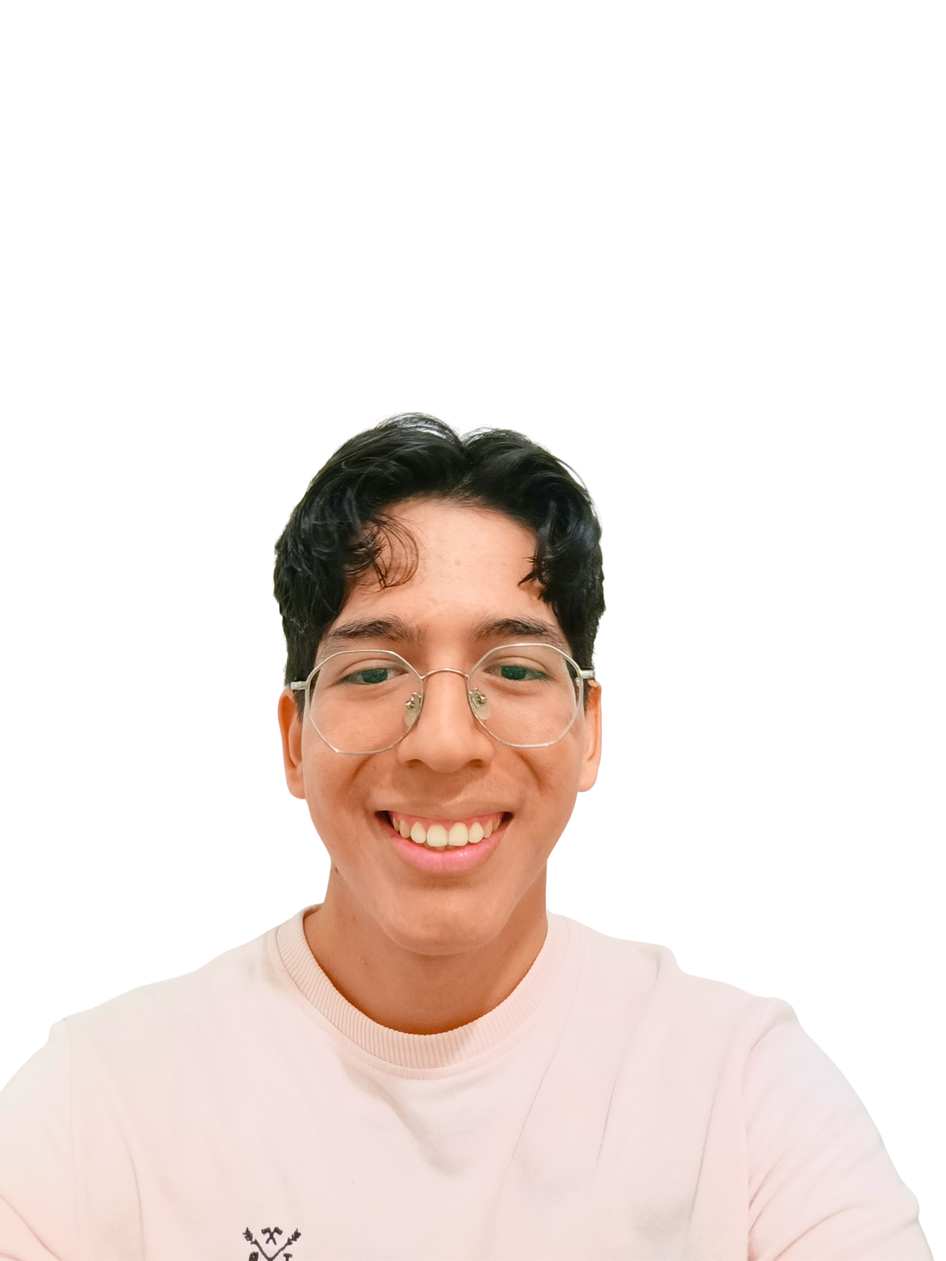
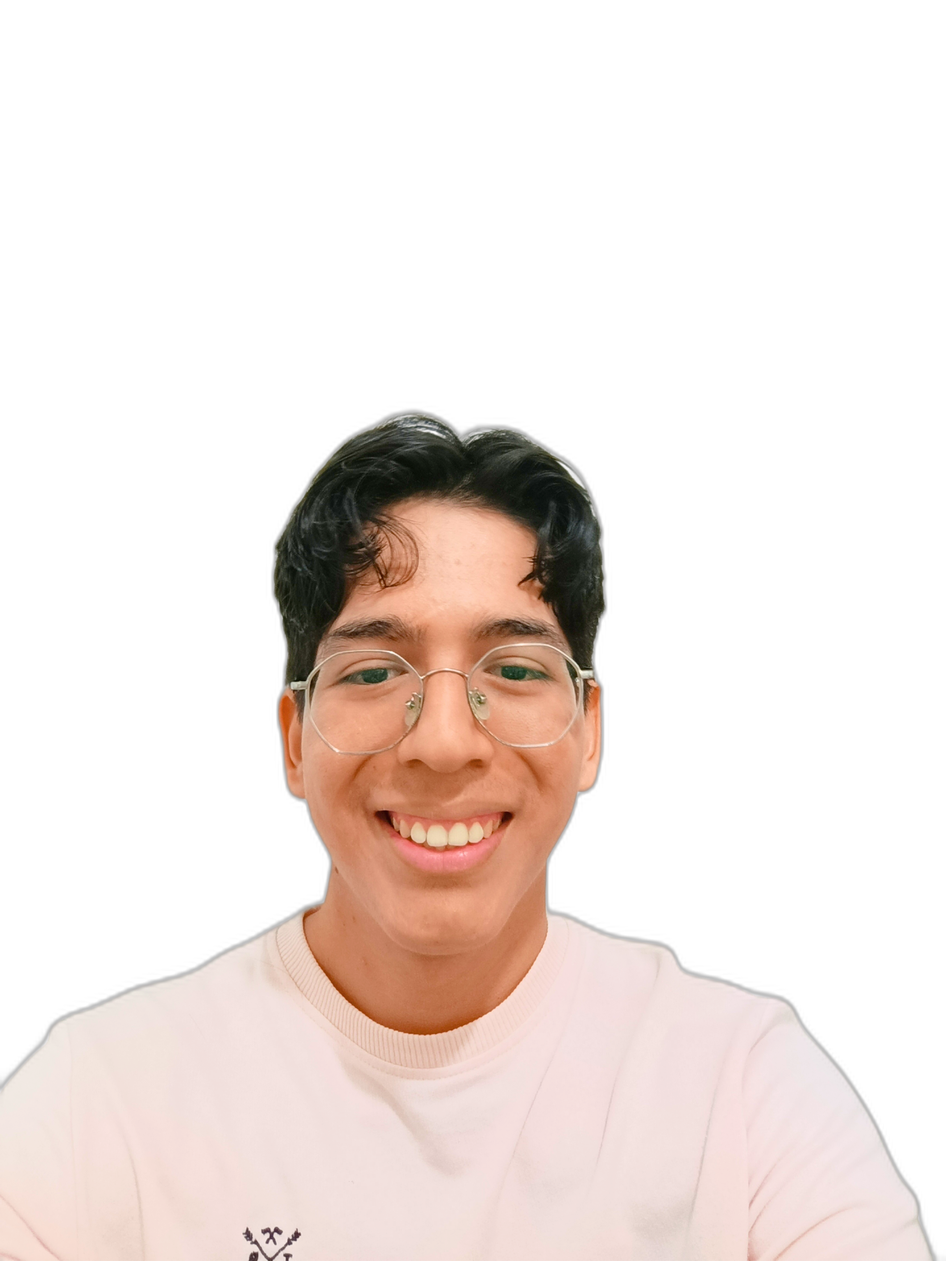
feat: quitar fondo de todas las fotos del equipo y convertir a PNG con fondo blanco

diff --git a/src/app/pages/home/home.ts b/src/app/pages/home/home.ts
@@ -72,7 +72,7 @@ export class Home {
   ];
 
   fundadores: TeamMember[] = [
-    { name: 'Alonso Segura', role: 'Co-Fundador', country: 'Costa Rica', flag: '🇨🇷', initials: 'AS', photo: 'equipo/Alonso Segura.jpg' },
+    { name: 'Alonso Segura', role: 'Co-Fundador', country: 'Costa Rica', flag: '🇨🇷', initials: 'AS', photo: 'equipo/Alonso Segura.png' },
     { name: 'Andrea Sánchez', role: 'Co-Fundadora', country: 'México', flag: '🇲🇽', initials: 'AR', photo: 'equipo/Andrea.png' },
   ];
 
@@ -98,9 +98,9 @@ export class Home {
       nombre: 'Financiamiento y Sostenibilidad',
       miembros: [
         { name: 'Leonel Anaya', role: 'Miembro', country: 'Ecuador', flag: '🇪🇨', initials: 'LA' },
-        { name: 'Camila Naranjo', role: 'Miembro', country: 'Ecuador', flag: '🇪🇨', initials: 'CN', photo: 'equipo/Camila Naranjo.jpg' },
+        { name: 'Camila Naranjo', role: 'Miembro', country: 'Ecuador', flag: '🇪🇨', initials: 'CN', photo: 'equipo/Camila Naranjo.png' },
         { name: 'Mariela Escobar', role: 'Miembro', country: 'Argentina', flag: '🇦🇷', initials: 'ME', photo: 'equipo/Mariela Escobar.png' },
-        { name: 'Nohely Cáceres', role: 'Miembro', country: 'Perú', flag: '🇵🇪', initials: 'NC', photo: 'equipo/Nohely Cáceres.jpg' },
+        { name: 'Nohely Cáceres', role: 'Miembro', country: 'Perú', flag: '🇵🇪', initials: 'NC', photo: 'equipo/Nohely Cáceres.png' },
       ],
     },
     {
@@ -110,7 +110,7 @@ export class Home {
         { name: 'Mario Aurelio Zapata', role: 'Miembro', country: 'Perú', flag: '🇵🇪', initials: 'MZ' },
         { name: 'Luis Camilo Díaz-Duarte', role: 'Miembro', country: 'Colombia', flag: '🇨🇴', initials: 'LD', photo: 'equipo/Luis Camilo Díaz-Duarte.png' },
         { name: 'Marcos Nahuel Ríos', role: 'Miembro', country: 'Argentina', flag: '🇦🇷', initials: 'MR' },
-        { name: 'Anaís Caviedes', role: 'Miembro', country: 'Chile', flag: '🇨🇱', initials: 'AC', photo: 'equipo/Anaís Caviedes.jpeg' },
+        { name: 'Anaís Caviedes', role: 'Miembro', country: 'Chile', flag: '🇨🇱', initials: 'AC', photo: 'equipo/Anaís Caviedes.png' },
         { name: 'Paula Camila González', role: 'Miembro', country: 'Ecuador', flag: '🇪🇨', initials: 'PG' },
         { name: 'Kimberly Raquel Aragón', role: 'Miembro', country: 'Guatemala', flag: '🇬🇹', initials: 'KA', photo: 'equipo/Kimberly Aragón.png' },
       ],
@@ -119,11 +119,11 @@ export class Home {
       nombre: 'Política y Regulación',
       miembros: [
         { name: 'Valentina Ramírez', role: 'Head', country: 'Ecuador', flag: '🇪🇨', initials: 'VR', photo: 'equipo/Valentina Ramírez.png', isHead: true },
-        { name: 'Andrea Ferrufino', role: 'Miembro', country: 'Bolivia', flag: '🇧🇴', initials: 'AF', photo: 'equipo/Andrea Ferrufino.jpg' },
+        { name: 'Andrea Ferrufino', role: 'Miembro', country: 'Bolivia', flag: '🇧🇴', initials: 'AF', photo: 'equipo/Andrea Ferrufino.png' },
         { name: 'Jose Manuel Limón', role: 'Miembro', country: 'México', flag: '🇲🇽', initials: 'JL', photo: 'equipo/José Manuel Hernández Limón.png' },
-        { name: 'Benjamín Mendoza', role: 'Miembro', country: 'México', flag: '🇲🇽', initials: 'BM', photo: 'equipo/Benjamín Mendoza.jpg' },
-        { name: 'María Guadalupe Juárez', role: 'Miembro', country: 'México', flag: '🇲🇽', initials: 'GJ', photo: 'equipo/María Guadalupe Juárez Hernández.jpg' },
-        { name: 'Javier David Uzcátegui', role: 'Miembro', country: 'Venezuela', flag: '🇻🇪', initials: 'JU', photo: 'equipo/Javier David-Uzcategui.jpg' },
+        { name: 'Benjamín Mendoza', role: 'Miembro', country: 'México', flag: '🇲🇽', initials: 'BM', photo: 'equipo/Benjamín Mendoza.png' },
+        { name: 'María Guadalupe Juárez', role: 'Miembro', country: 'México', flag: '🇲🇽', initials: 'GJ', photo: 'equipo/María Guadalupe Juárez Hernández.png' },
+        { name: 'Javier David Uzcátegui', role: 'Miembro', country: 'Venezuela', flag: '🇻🇪', initials: 'JU', photo: 'equipo/Javier David-Uzcategui.png' },
         { name: 'Carlos Andrés Moya', role: 'Miembro', country: 'Costa Rica', flag: '🇨🇷', initials: 'CM', photo: 'equipo/Carlos Moya.png' },
         { name: 'Wilka Fidel Vargas', role: 'Miembro', country: 'Bolivia', flag: '🇧🇴', initials: 'WV', photo: 'equipo/Willka Fidel Vargas Peña.png' },
         { name: 'Alejandro Vallejo', role: 'Miembro', country: 'Rep. Dominicana', flag: '🇩🇴', initials: 'AV' },
@@ -134,27 +134,27 @@ export class Home {
       miembros: [
         { name: 'Fabrizio Yasuo Flores', role: 'Miembro', country: 'Perú', flag: '🇵🇪', initials: 'FF', photo: 'equipo/Fabrizio Flores.png' },
         { name: 'Estefanía Mansilla', role: 'Miembro', country: 'Argentina', flag: '🇦🇷', initials: 'EM' },
-        { name: 'María Cecilia Merino', role: 'Miembro', country: 'Argentina', flag: '🇦🇷', initials: 'MM', photo: 'equipo/María Cecilia Merino.jpeg' },
+        { name: 'María Cecilia Merino', role: 'Miembro', country: 'Argentina', flag: '🇦🇷', initials: 'MM', photo: 'equipo/María Cecilia Merino.png' },
         { name: 'Mishell Criollo', role: 'Miembro', country: 'Ecuador', flag: '🇪🇨', initials: 'MC', photo: 'equipo/Mishell Criollo.png' },
-        { name: 'Pilar Montealegre', role: 'Miembro', country: 'Bolivia', flag: '🇧🇴', initials: 'PM', photo: 'equipo/Pilar Montealegre Vargas.jpg' },
-        { name: 'Rodrigo Aguirre', role: 'Miembro', country: 'Bolivia', flag: '🇧🇴', initials: 'RA', photo: 'equipo/Rodrigo Aguirre.jpg' },
-        { name: 'Vladimir Tandapiico', role: 'Miembro', country: 'Ecuador', flag: '🇪🇨', initials: 'VT', photo: 'equipo/Wladimir Tandapilco.jpg' },
-        { name: 'Andrea Gualtasamin', role: 'Miembro', country: 'Ecuador', flag: '🇪🇨', initials: 'AG', photo: 'equipo/Andrea Guallasamin.jpg' },
-        { name: 'Xavier García', role: 'Miembro', country: 'Ecuador', flag: '🇪🇨', initials: 'XG', photo: 'equipo/Xavier García.jpg' },
+        { name: 'Pilar Montealegre', role: 'Miembro', country: 'Bolivia', flag: '🇧🇴', initials: 'PM', photo: 'equipo/Pilar Montealegre Vargas.png' },
+        { name: 'Rodrigo Aguirre', role: 'Miembro', country: 'Bolivia', flag: '🇧🇴', initials: 'RA', photo: 'equipo/Rodrigo Aguirre.png' },
+        { name: 'Vladimir Tandapiico', role: 'Miembro', country: 'Ecuador', flag: '🇪🇨', initials: 'VT', photo: 'equipo/Wladimir Tandapilco.png' },
+        { name: 'Andrea Gualtasamin', role: 'Miembro', country: 'Ecuador', flag: '🇪🇨', initials: 'AG', photo: 'equipo/Andrea Guallasamin.png' },
+        { name: 'Xavier García', role: 'Miembro', country: 'Ecuador', flag: '🇪🇨', initials: 'XG', photo: 'equipo/Xavier García.png' },
       ],
     },
     {
       nombre: 'Capacitación',
       miembros: [
-        { name: 'Bastian Márquez', role: 'Head', country: 'Chile', flag: '🇨🇱', initials: 'BM', photo: 'equipo/Bastián Márquez González.jpeg', isHead: true },
+        { name: 'Bastian Márquez', role: 'Head', country: 'Chile', flag: '🇨🇱', initials: 'BM', photo: 'equipo/Bastián Márquez González.png', isHead: true },
         { name: 'Jessica Martin', role: 'Miembro', country: 'Argentina', flag: '🇦🇷', initials: 'JM' },
         { name: 'Katherine Silva', role: 'Miembro', country: 'Ecuador', flag: '🇪🇨', initials: 'KS' },
-        { name: 'Sebastian Torres', role: 'Miembro', country: 'Colombia', flag: '🇨🇴', initials: 'ST', photo: 'equipo/Sebastián Toro.jpg' },
+        { name: 'Sebastian Torres', role: 'Miembro', country: 'Colombia', flag: '🇨🇴', initials: 'ST', photo: 'equipo/Sebastián Toro.png' },
         { name: 'Juan David León', role: 'Miembro', country: 'Colombia', flag: '🇨🇴', initials: 'JL' },
-        { name: 'Rocío Coronel', role: 'Miembro', country: 'Paraguay', flag: '🇵🇾', initials: 'RC', photo: 'equipo/Rocio Coronel.jpg' },
+        { name: 'Rocío Coronel', role: 'Miembro', country: 'Paraguay', flag: '🇵🇾', initials: 'RC', photo: 'equipo/Rocio Coronel.png' },
         { name: 'Maricela Martínez', role: 'Miembro', country: 'Costa Rica', flag: '🇨🇷', initials: 'MM' },
-        { name: 'Gloriana Corrales', role: 'Miembro', country: 'Costa Rica', flag: '🇨🇷', initials: 'GC', photo: 'equipo/Gloriana Corrales Masís.jpg' },
-        { name: 'Ailey Caballero', role: 'Miembro', country: 'Panamá', flag: '🇵🇦', initials: 'AC', photo: 'equipo/Asley Caballero.jpeg' },
+        { name: 'Gloriana Corrales', role: 'Miembro', country: 'Costa Rica', flag: '🇨🇷', initials: 'GC', photo: 'equipo/Gloriana Corrales Masís.png' },
+        { name: 'Ailey Caballero', role: 'Miembro', country: 'Panamá', flag: '🇵🇦', initials: 'AC', photo: 'equipo/Asley Caballero.png' },
         { name: 'Krister Figueroa', role: 'Miembro', country: 'Ecuador', flag: '🇪🇨', initials: 'KF', photo: 'equipo/Krister Figueroa.png' },
         { name: 'Nelson Rodríguez', role: 'Miembro', country: 'Ecuador', flag: '🇪🇨', initials: 'NR' },
         { name: 'Mariane Córdoba', role: 'Miembro', country: 'Costa Rica', flag: '🇨🇷', initials: 'MC' },
@@ -163,24 +163,24 @@ export class Home {
     {
       nombre: 'Gestión de Actividades',
       miembros: [
-        { name: 'Caren Nicole Moreno', role: 'Miembro', country: 'Argentina', flag: '🇦🇷', initials: 'CN', photo: 'equipo/Caren Moreno.jpg' },
-        { name: 'Denis Buffa', role: 'Miembro', country: 'Argentina', flag: '🇦🇷', initials: 'DB', photo: 'equipo/Denis Buffa.jpeg' },
-        { name: 'Christian Andrade', role: 'Miembro', country: 'Ecuador', flag: '🇪🇨', initials: 'CA', photo: 'equipo/Christian Andrade.jpeg' },
-        { name: 'Pedro Raúl Javier Mendoza', role: 'Miembro', country: 'Perú', flag: '🇵🇪', initials: 'PM', photo: 'equipo/Pedro Raul Mendoza.jpeg' },
+        { name: 'Caren Nicole Moreno', role: 'Miembro', country: 'Argentina', flag: '🇦🇷', initials: 'CN', photo: 'equipo/Caren Moreno.png' },
+        { name: 'Denis Buffa', role: 'Miembro', country: 'Argentina', flag: '🇦🇷', initials: 'DB', photo: 'equipo/Denis Buffa.png' },
+        { name: 'Christian Andrade', role: 'Miembro', country: 'Ecuador', flag: '🇪🇨', initials: 'CA', photo: 'equipo/Christian Andrade.png' },
+        { name: 'Pedro Raúl Javier Mendoza', role: 'Miembro', country: 'Perú', flag: '🇵🇪', initials: 'PM', photo: 'equipo/Pedro Raul Mendoza.png' },
       ],
     },
     {
       nombre: 'Diseño',
       miembros: [
         { name: 'Luciana Castro', role: 'Miembro', country: 'Perú', flag: '🇵🇪', initials: 'LC', photo: 'equipo/Luciana Castro Camavilca foto en blanco.png' },
-        { name: 'Mariana Valdéz', role: 'Miembro', country: 'México', flag: '🇲🇽', initials: 'MV', photo: 'equipo/Mariana Valdez Yañez.JPG' },
-        { name: 'Debora Parodi', role: 'Miembro', country: 'Argentina', flag: '🇦🇷', initials: 'DP', photo: 'equipo/Debora Parodi.jpg' },
+        { name: 'Mariana Valdéz', role: 'Miembro', country: 'México', flag: '🇲🇽', initials: 'MV', photo: 'equipo/Mariana Valdez Yañez.png' },
+        { name: 'Debora Parodi', role: 'Miembro', country: 'Argentina', flag: '🇦🇷', initials: 'DP', photo: 'equipo/Debora Parodi.png' },
         { name: 'Catalina Serrano', role: 'Miembro', country: 'Ecuador', flag: '🇪🇨', initials: 'CS', photo: 'equipo/Catalina Serrano Foto.png' },
-        { name: 'Alessia Vásquez', role: 'Miembro', country: 'Costa Rica', flag: '🇨🇷', initials: 'AV', photo: 'equipo/Alessia Vasquez.jpg' },
+        { name: 'Alessia Vásquez', role: 'Miembro', country: 'Costa Rica', flag: '🇨🇷', initials: 'AV', photo: 'equipo/Alessia Vasquez.png' },
         { name: 'Ashley Alban', role: 'Miembro', country: 'Ecuador', flag: '🇪🇨', initials: 'AA', photo: 'equipo/Ashley Alban.png' },
         { name: 'Charlize Badilla', role: 'Miembro', country: 'Costa Rica', flag: '🇨🇷', initials: 'CB', photo: 'equipo/Charlize Badilla Soto.png' },
-        { name: 'Ana Patricia Minaya', role: 'Miembro', country: 'Perú', flag: '🇵🇪', initials: 'AP', photo: 'equipo/Ana Minaya De La Peña.jpg' },
-        { name: 'Anahí Nájera', role: 'Miembro', country: 'México', flag: '🇲🇽', initials: 'AN', photo: 'equipo/Anahi Najera.jpg' },
+        { name: 'Ana Patricia Minaya', role: 'Miembro', country: 'Perú', flag: '🇵🇪', initials: 'AP', photo: 'equipo/Ana Minaya De La Peña.png' },
+        { name: 'Anahí Nájera', role: 'Miembro', country: 'México', flag: '🇲🇽', initials: 'AN', photo: 'equipo/Anahi Najera.png' },
       ],
     },
     {
@@ -188,20 +188,20 @@ export class Home {
       miembros: [
         { name: 'Belén Tosini', role: 'Miembro', country: 'Ecuador', flag: '🇪🇨', initials: 'BT' },
         { name: 'Matías Tosini', role: 'Miembro', country: 'Argentina', flag: '🇦🇷', initials: 'MT', photo: 'equipo/Matias Tosini.png' },
-        { name: 'Aaron Maldonado', role: 'Miembro', country: 'Ecuador', flag: '🇪🇨', initials: 'AM', photo: 'equipo/Aaron Maldonado.JPG' },
+        { name: 'Aaron Maldonado', role: 'Miembro', country: 'Ecuador', flag: '🇪🇨', initials: 'AM', photo: 'equipo/Aaron Maldonado.png' },
       ],
     },
     {
       nombre: 'Recursos e Información',
       miembros: [
-        { name: 'Katherine Alessandra Girón', role: 'Miembro', country: 'Guatemala', flag: '🇬🇹', initials: 'KG', photo: 'equipo/Katherine Girón.jpg' },
-        { name: 'Andrea Ramos', role: 'Miembro', country: 'México', flag: '🇲🇽', initials: 'AR', photo: 'equipo/Andrea Ramos.webp' },
-        { name: 'Josue Alvarez', role: 'Miembro', country: 'Ecuador', flag: '🇪🇨', initials: 'JA', photo: 'equipo/Josue Alvarez.jpeg' },
-        { name: 'Angie Pozo', role: 'Miembro', country: 'Ecuador', flag: '🇪🇨', initials: 'AP', photo: 'equipo/Angie Pozo Cedeño.jpg' },
-        { name: 'Camil Lucía Espinoza', role: 'Miembro', country: 'Perú', flag: '🇵🇪', initials: 'CE', photo: 'equipo/CAMIL ESPINOZA-RAMOS.jpeg' },
+        { name: 'Katherine Alessandra Girón', role: 'Miembro', country: 'Guatemala', flag: '🇬🇹', initials: 'KG', photo: 'equipo/Katherine Girón.png' },
+        { name: 'Andrea Ramos', role: 'Miembro', country: 'México', flag: '🇲🇽', initials: 'AR', photo: 'equipo/Andrea Ramos.png' },
+        { name: 'Josue Alvarez', role: 'Miembro', country: 'Ecuador', flag: '🇪🇨', initials: 'JA', photo: 'equipo/Josue Alvarez.png' },
+        { name: 'Angie Pozo', role: 'Miembro', country: 'Ecuador', flag: '🇪🇨', initials: 'AP', photo: 'equipo/Angie Pozo Cedeño.png' },
+        { name: 'Camil Lucía Espinoza', role: 'Miembro', country: 'Perú', flag: '🇵🇪', initials: 'CE', photo: 'equipo/CAMIL ESPINOZA-RAMOS.png' },
         { name: 'Johan Kalil Guerra', role: 'Miembro', country: 'Panamá', flag: '🇵🇦', initials: 'JG', photo: 'equipo/Johan Guerra.png' },
         { name: 'Jeancore Padilla', role: 'Miembro', country: 'Bolivia', flag: '🇧🇴', initials: 'JP', photo: 'equipo/Jeancarla Padilla.png' },
-        { name: 'Ian Sebastian Terán', role: 'Miembro', country: 'Bolivia', flag: '🇧🇴', initials: 'IT', photo: 'equipo/Ian Sebastian Teran.jpg' },
+        { name: 'Ian Sebastian Terán', role: 'Miembro', country: 'Bolivia', flag: '🇧🇴', initials: 'IT', photo: 'equipo/Ian Sebastian Teran.png' },
         { name: 'Alejandra Cazares', role: 'Miembro', country: 'México', flag: '🇲🇽', initials: 'AC', photo: 'equipo/Alejandra Cazares.png' },
         { name: 'Jorge Barrios', role: 'Miembro', country: 'Ecuador', flag: '🇪🇨', initials: 'JB', photo: 'equipo/Jorge Luis Barrios.png' },
         { name: 'Tomas Blanzaco', role: 'Miembro', country: 'Argentina', flag: '🇦🇷', initials: 'TB', photo: 'equipo/Blanzaco Tomas.png' },

diff --git a/src/app/components/latam-map/latam-map.ts b/src/app/components/latam-map/latam-map.ts
@@ -37,11 +37,11 @@ export class LatamMap {
       members: [
         { name: 'Andrea Sánchez', role: 'Co-Fundadora', initials: 'AS', photo: 'equipo/Andrea.png' },
         { name: 'Jose Manuel Limón', role: 'Política y Regulación', initials: 'JL', photo: 'equipo/José Manuel Hernández Limón.png' },
-        { name: 'Benjamín Mendoza', role: 'Política y Regulación', initials: 'BM', photo: 'equipo/Benjamín Mendoza.jpg' },
-        { name: 'María Guadalupe Juárez', role: 'Política y Regulación', initials: 'GJ', photo: 'equipo/María Guadalupe Juárez Hernández.jpg' },
-        { name: 'Mariana Valdéz', role: 'Diseño', initials: 'MV', photo: 'equipo/Mariana Valdez Yañez.JPG' },
-        { name: 'Anahí Nájera', role: 'Diseño', initials: 'AN', photo: 'equipo/Anahi Najera.jpg' },
-        { name: 'Andrea Ramos', role: 'Recursos e Información', initials: 'AR', photo: 'equipo/Andrea Ramos.webp' },
+        { name: 'Benjamín Mendoza', role: 'Política y Regulación', initials: 'BM', photo: 'equipo/Benjamín Mendoza.png' },
+        { name: 'María Guadalupe Juárez', role: 'Política y Regulación', initials: 'GJ', photo: 'equipo/María Guadalupe Juárez Hernández.png' },
+        { name: 'Mariana Valdéz', role: 'Diseño', initials: 'MV', photo: 'equipo/Mariana Valdez Yañez.png' },
+        { name: 'Anahí Nájera', role: 'Diseño', initials: 'AN', photo: 'equipo/Anahi Najera.png' },
+        { name: 'Andrea Ramos', role: 'Recursos e Información', initials: 'AR', photo: 'equipo/Andrea Ramos.png' },
         { name: 'Alejandra Cazares', role: 'Recursos e Información', initials: 'AC', photo: 'equipo/Alejandra Cazares.png' },
       ]
     },
@@ -50,7 +50,7 @@ export class LatamMap {
       color: '#8B5CF6', colorHover: '#A78BFA',
       members: [
         { name: 'Kimberly Raquel Aragón', role: 'Gestión de Proyectos', initials: 'KA', photo: 'equipo/Kimberly Aragón.png' },
-        { name: 'Katherine Alessandra Girón', role: 'Recursos e Información', initials: 'KG', photo: 'equipo/Katherine Girón.jpg' },
+        { name: 'Katherine Alessandra Girón', role: 'Recursos e Información', initials: 'KG', photo: 'equipo/Katherine Girón.png' },
       ]
     },
     {
@@ -72,12 +72,12 @@ export class LatamMap {
       id: 'CR', label: 'Costa Rica', flag: '🇨🇷',
       color: '#EC4899', colorHover: '#F472B6',
       members: [
-        { name: 'Alonso Segura', role: 'Co-Fundador', initials: 'AS', photo: 'equipo/Alonso Segura.jpg' },
+        { name: 'Alonso Segura', role: 'Co-Fundador', initials: 'AS', photo: 'equipo/Alonso Segura.png' },
         { name: 'Carlos Andrés Moya', role: 'Política y Regulación', initials: 'CM', photo: 'equipo/Carlos Moya.png' },
-        { name: 'Gloriana Corrales', role: 'Capacitación', initials: 'GC', photo: 'equipo/Gloriana Corrales Masís.jpg' },
+        { name: 'Gloriana Corrales', role: 'Capacitación', initials: 'GC', photo: 'equipo/Gloriana Corrales Masís.png' },
         { name: 'Maricela Martínez', role: 'Capacitación', initials: 'MM' },
         { name: 'Mariane Córdoba', role: 'Capacitación', initials: 'MC' },
-        { name: 'Alessia Vásquez', role: 'Diseño', initials: 'AV', photo: 'equipo/Alessia Vasquez.jpg' },
+        { name: 'Alessia Vásquez', role: 'Diseño', initials: 'AV', photo: 'equipo/Alessia Vasquez.png' },
         { name: 'Charlize Badilla', role: 'Diseño', initials: 'CB', photo: 'equipo/Charlize Badilla Soto.png' },
       ]
     },
@@ -85,7 +85,7 @@ export class LatamMap {
       id: 'PA', label: 'Panamá', flag: '🇵🇦',
       color: '#06B6D4', colorHover: '#22D3EE',
       members: [
-        { name: 'Ailey Caballero', role: 'Capacitación', initials: 'AC', photo: 'equipo/Asley Caballero.jpeg' },
+        { name: 'Ailey Caballero', role: 'Capacitación', initials: 'AC', photo: 'equipo/Asley Caballero.png' },
         { name: 'Johan Kalil Guerra', role: 'Recursos e Información', initials: 'JG', photo: 'equipo/Johan Guerra.png' },
       ]
     },
@@ -94,7 +94,7 @@ export class LatamMap {
       color: '#F97316', colorHover: '#FB923C',
       members: [
         { name: 'Luis Camilo Díaz-Duarte', role: 'Gestión de Proyectos', initials: 'LD', photo: 'equipo/Luis Camilo Díaz-Duarte.png' },
-        { name: 'Sebastian Torres', role: 'Capacitación', initials: 'ST', photo: 'equipo/Sebastián Toro.jpg' },
+        { name: 'Sebastian Torres', role: 'Capacitación', initials: 'ST', photo: 'equipo/Sebastián Toro.png' },
         { name: 'Juan David León', role: 'Capacitación', initials: 'JL' },
       ]
     },
@@ -102,7 +102,7 @@ export class LatamMap {
       id: 'VE', label: 'Venezuela', flag: '🇻🇪',
       color: '#EF4444', colorHover: '#F87171',
       members: [
-        { name: 'Javier David Uzcátegui', role: 'Política y Regulación', initials: 'JU', photo: 'equipo/Javier David-Uzcategui.jpg' },
+        { name: 'Javier David Uzcátegui', role: 'Política y Regulación', initials: 'JU', photo: 'equipo/Javier David-Uzcategui.png' },
       ]
     },
     {
@@ -110,23 +110,23 @@ export class LatamMap {
       color: '#3B82F6', colorHover: '#60A5FA',
       members: [
         { name: 'Leonel Anaya', role: 'Financiamiento y Sostenibilidad', initials: 'LA' },
-        { name: 'Camila Naranjo', role: 'Financiamiento y Sostenibilidad', initials: 'CN', photo: 'equipo/Camila Naranjo.jpg' },
+        { name: 'Camila Naranjo', role: 'Financiamiento y Sostenibilidad', initials: 'CN', photo: 'equipo/Camila Naranjo.png' },
         { name: 'Paula Camila González', role: 'Gestión de Proyectos', initials: 'PG' },
         { name: 'Valentina Ramírez', role: 'Política y Regulación (Head)', initials: 'VR', photo: 'equipo/Valentina Ramírez.png' },
         { name: 'Mishell Criollo', role: 'Expansión', initials: 'MC', photo: 'equipo/Mishell Criollo.png' },
-        { name: 'Vladimir Tandapiico', role: 'Expansión', initials: 'VT', photo: 'equipo/Wladimir Tandapilco.jpg' },
-        { name: 'Andrea Gualtasamin', role: 'Expansión', initials: 'AG', photo: 'equipo/Andrea Guallasamin.jpg' },
-        { name: 'Xavier García', role: 'Expansión', initials: 'XG', photo: 'equipo/Xavier García.jpg' },
+        { name: 'Vladimir Tandapiico', role: 'Expansión', initials: 'VT', photo: 'equipo/Wladimir Tandapilco.png' },
+        { name: 'Andrea Gualtasamin', role: 'Expansión', initials: 'AG', photo: 'equipo/Andrea Guallasamin.png' },
+        { name: 'Xavier García', role: 'Expansión', initials: 'XG', photo: 'equipo/Xavier García.png' },
         { name: 'Katherine Silva', role: 'Capacitación', initials: 'KS' },
         { name: 'Krister Figueroa', role: 'Capacitación', initials: 'KF', photo: 'equipo/Krister Figueroa.png' },
         { name: 'Nelson Rodríguez', role: 'Capacitación', initials: 'NR' },
-        { name: 'Christian Andrade', role: 'Gestión de Actividades', initials: 'CA', photo: 'equipo/Christian Andrade.jpeg' },
+        { name: 'Christian Andrade', role: 'Gestión de Actividades', initials: 'CA', photo: 'equipo/Christian Andrade.png' },
         { name: 'Catalina Serrano', role: 'Diseño', initials: 'CS', photo: 'equipo/Catalina Serrano Foto.png' },
         { name: 'Ashley Alban', role: 'Diseño', initials: 'AA', photo: 'equipo/Ashley Alban.png' },
         { name: 'Belén Tosini', role: 'Audiovisual', initials: 'BT' },
-        { name: 'Aaron Maldonado', role: 'Audiovisual', initials: 'AM', photo: 'equipo/Aaron Maldonado.JPG' },
-        { name: 'Josue Alvarez', role: 'Recursos e Información', initials: 'JA', photo: 'equipo/Josue Alvarez.jpeg' },
-        { name: 'Angie Pozo', role: 'Recursos e Información', initials: 'AP', photo: 'equipo/Angie Pozo Cedeño.jpg' },
+        { name: 'Aaron Maldonado', role: 'Audiovisual', initials: 'AM', photo: 'equipo/Aaron Maldonado.png' },
+        { name: 'Josue Alvarez', role: 'Recursos e Información', initials: 'JA', photo: 'equipo/Josue Alvarez.png' },
+        { name: 'Angie Pozo', role: 'Recursos e Información', initials: 'AP', photo: 'equipo/Angie Pozo Cedeño.png' },
         { name: 'Jorge Barrios', role: 'Recursos e Información', initials: 'JB', photo: 'equipo/Jorge Luis Barrios.png' },
         { name: 'María Belén Terán', role: 'Gestión de Proyectos', initials: 'MB', photo: 'equipo/María Belén Terán.png' },
       ]
@@ -135,26 +135,26 @@ export class LatamMap {
       id: 'PE', label: 'Perú', flag: '🇵🇪',
       color: '#10B981', colorHover: '#34D399',
       members: [
-        { name: 'Nohely Cáceres', role: 'Financiamiento y Sostenibilidad', initials: 'NC', photo: 'equipo/Nohely Cáceres.jpg' },
+        { name: 'Nohely Cáceres', role: 'Financiamiento y Sostenibilidad', initials: 'NC', photo: 'equipo/Nohely Cáceres.png' },
         { name: 'Mario Aurelio Zapata', role: 'Gestión de Proyectos', initials: 'MZ' },
         { name: 'Fabrizio Yasuo Flores', role: 'Expansión', initials: 'FF', photo: 'equipo/Fabrizio Flores.png' },
-        { name: 'Pedro Raúl Javier Mendoza', role: 'Gestión de Actividades', initials: 'PM', photo: 'equipo/Pedro Raul Mendoza.jpeg' },
+        { name: 'Pedro Raúl Javier Mendoza', role: 'Gestión de Actividades', initials: 'PM', photo: 'equipo/Pedro Raul Mendoza.png' },
         { name: 'Luciana Castro', role: 'Diseño', initials: 'LC', photo: 'equipo/Luciana Castro Camavilca foto en blanco.png' },
-        { name: 'Ana Patricia Minaya', role: 'Diseño', initials: 'AP', photo: 'equipo/Ana Minaya De La Peña.jpg' },
-        { name: 'Camil Lucía Espinoza', role: 'Recursos e Información', initials: 'CE', photo: 'equipo/CAMIL ESPINOZA-RAMOS.jpeg' },
+        { name: 'Ana Patricia Minaya', role: 'Diseño', initials: 'AP', photo: 'equipo/Ana Minaya De La Peña.png' },
+        { name: 'Camil Lucía Espinoza', role: 'Recursos e Información', initials: 'CE', photo: 'equipo/CAMIL ESPINOZA-RAMOS.png' },
       ]
     },
     {
       id: 'BO', label: 'Bolivia', flag: '🇧🇴',
       color: '#84CC16', colorHover: '#A3E635',
       members: [
-        { name: 'Andrea Ferrufino', role: 'Política y Regulación', initials: 'AF', photo: 'equipo/Andrea Ferrufino.jpg' },
+        { name: 'Andrea Ferrufino', role: 'Política y Regulación', initials: 'AF', photo: 'equipo/Andrea Ferrufino.png' },
         { name: 'Wilka Fidel Vargas', role: 'Política y Regulación', initials: 'WV', photo: 'equipo/Willka Fidel Vargas Peña.png' },
         { name: 'Estefanía Mansilla', role: 'Expansión', initials: 'EM' },
-        { name: 'Pilar Montealegre', role: 'Expansión', initials: 'PM', photo: 'equipo/Pilar Montealegre Vargas.jpg' },
-        { name: 'Rodrigo Aguirre', role: 'Expansión', initials: 'RA', photo: 'equipo/Rodrigo Aguirre.jpg' },
+        { name: 'Pilar Montealegre', role: 'Expansión', initials: 'PM', photo: 'equipo/Pilar Montealegre Vargas.png' },
+        { name: 'Rodrigo Aguirre', role: 'Expansión', initials: 'RA', photo: 'equipo/Rodrigo Aguirre.png' },
         { name: 'Jeancore Padilla', role: 'Recursos e Información', initials: 'JP', photo: 'equipo/Jeancarla Padilla.png' },
-        { name: 'Ian Sebastian Terán', role: 'Recursos e Información', initials: 'IT', photo: 'equipo/Ian Sebastian Teran.jpg' },
+        { name: 'Ian Sebastian Terán', role: 'Recursos e Información', initials: 'IT', photo: 'equipo/Ian Sebastian Teran.png' },
       ]
     },
     {
@@ -166,15 +166,15 @@ export class LatamMap {
       id: 'PY', label: 'Paraguay', flag: '🇵🇾',
       color: '#F43F5E', colorHover: '#FB7185',
       members: [
-        { name: 'Rocío Coronel', role: 'Capacitación', initials: 'RC', photo: 'equipo/Rocio Coronel.jpg' },
+        { name: 'Rocío Coronel', role: 'Capacitación', initials: 'RC', photo: 'equipo/Rocio Coronel.png' },
       ]
     },
     {
       id: 'CL', label: 'Chile', flag: '🇨🇱',
       color: '#A855F7', colorHover: '#C084FC',
       members: [
-        { name: 'Anaís Caviedes', role: 'Gestión de Proyectos', initials: 'AC', photo: 'equipo/Anaís Caviedes.jpeg' },
-        { name: 'Bastian Márquez', role: 'Capacitación (Head)', initials: 'BM', photo: 'equipo/Bastián Márquez González.jpeg' },
+        { name: 'Anaís Caviedes', role: 'Gestión de Proyectos', initials: 'AC', photo: 'equipo/Anaís Caviedes.png' },
+        { name: 'Bastian Márquez', role: 'Capacitación (Head)', initials: 'BM', photo: 'equipo/Bastián Márquez González.png' },
       ]
     },
     {
@@ -189,11 +189,11 @@ export class LatamMap {
         { name: 'Mariela Escobar', role: 'Financiamiento y Sostenibilidad', initials: 'ME', photo: 'equipo/Mariela Escobar.png' },
         { name: 'Marcos Nahuel Ríos', role: 'Gestión de Proyectos', initials: 'MR' },
         { name: 'Estefanía Mansilla', role: 'Expansión', initials: 'EM' },
-        { name: 'María Cecilia Merino', role: 'Expansión', initials: 'MM', photo: 'equipo/María Cecilia Merino.jpeg' },
+        { name: 'María Cecilia Merino', role: 'Expansión', initials: 'MM', photo: 'equipo/María Cecilia Merino.png' },
         { name: 'Jessica Martin', role: 'Capacitación', initials: 'JM' },
-        { name: 'Caren Nicole Moreno', role: 'Gestión de Actividades', initials: 'CN', photo: 'equipo/Caren Moreno.jpg' },
-        { name: 'Denis Buffa', role: 'Gestión de Actividades', initials: 'DB', photo: 'equipo/Denis Buffa.jpeg' },
-        { name: 'Debora Parodi', role: 'Diseño', initials: 'DP', photo: 'equipo/Debora Parodi.jpg' },
+        { name: 'Caren Nicole Moreno', role: 'Gestión de Actividades', initials: 'CN', photo: 'equipo/Caren Moreno.png' },
+        { name: 'Denis Buffa', role: 'Gestión de Actividades', initials: 'DB', photo: 'equipo/Denis Buffa.png' },
+        { name: 'Debora Parodi', role: 'Diseño', initials: 'DP', photo: 'equipo/Debora Parodi.png' },
         { name: 'Matías Tosini', role: 'Audiovisual', initials: 'MT', photo: 'equipo/Matias Tosini.png' },
         { name: 'Tomas Blanzaco', role: 'Recursos e Información', initials: 'TB', photo: 'equipo/Blanzaco Tomas.png' },
       ]
